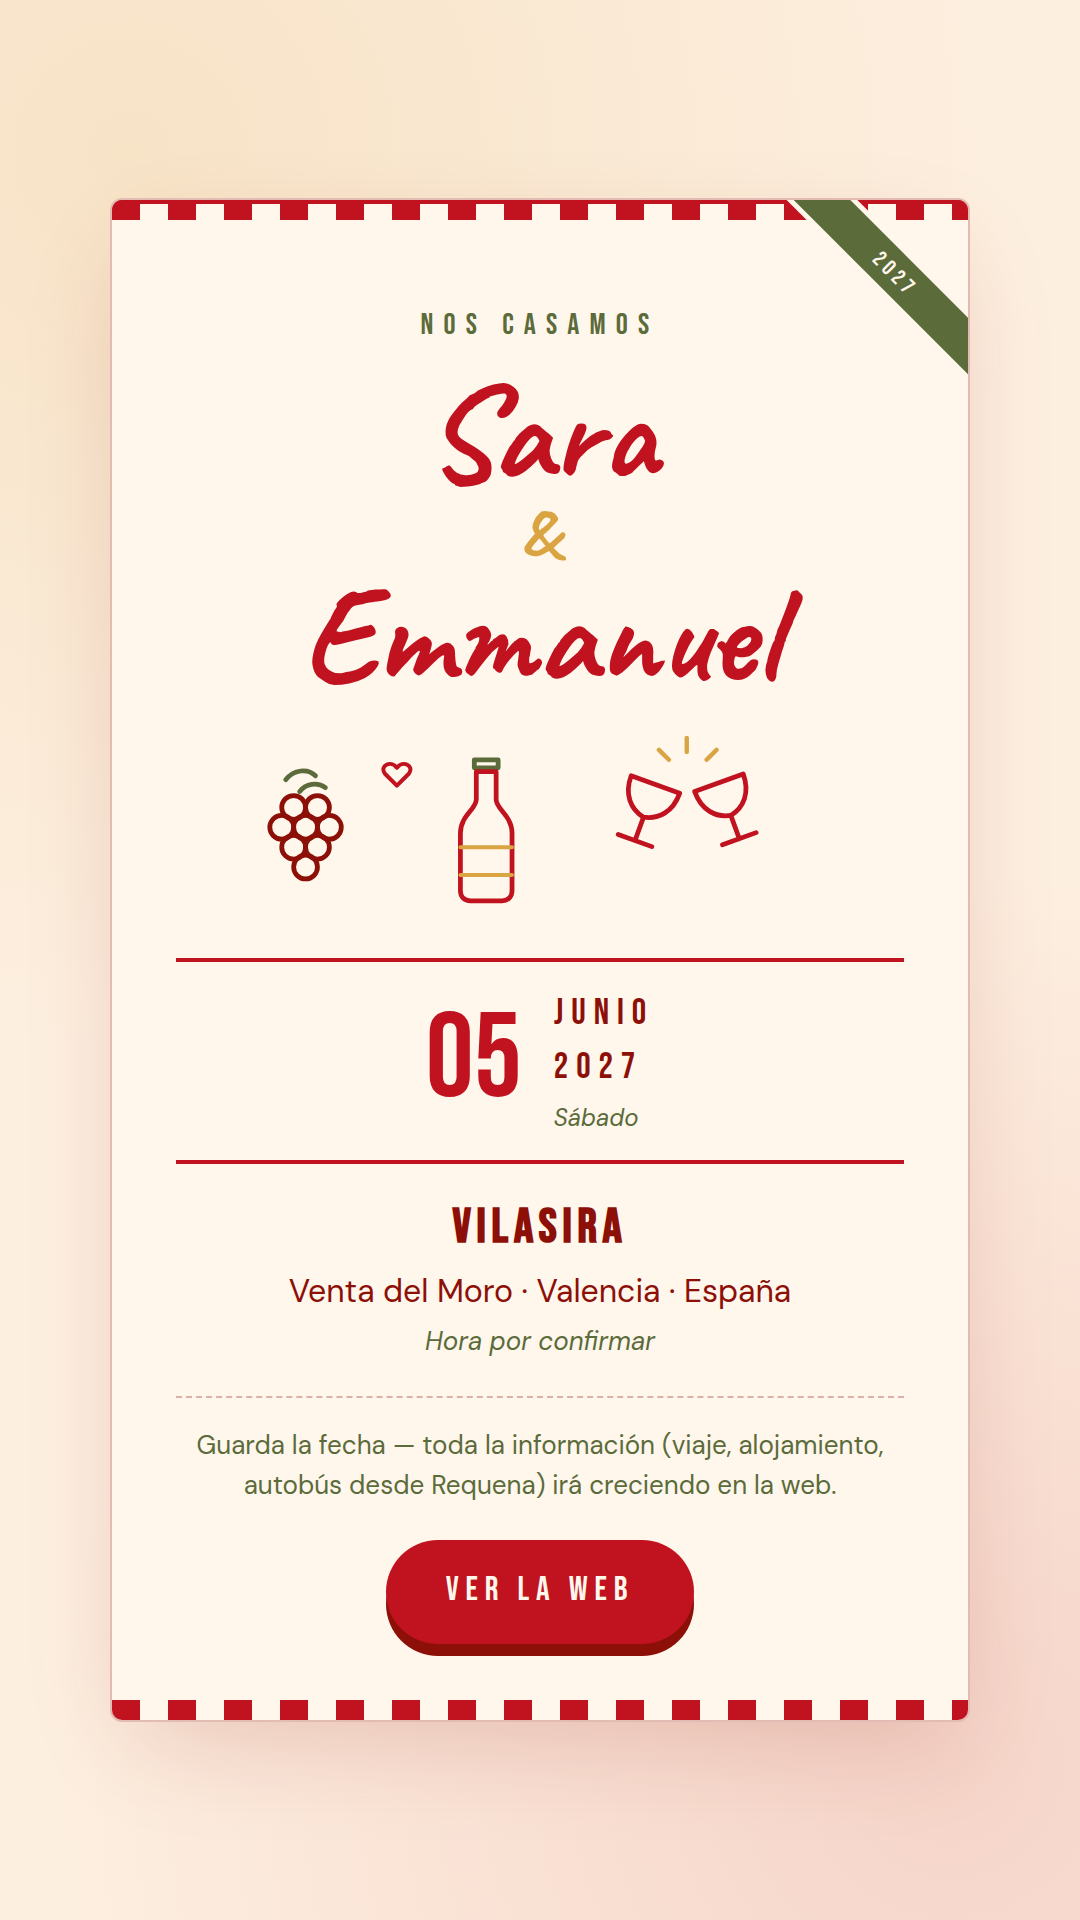
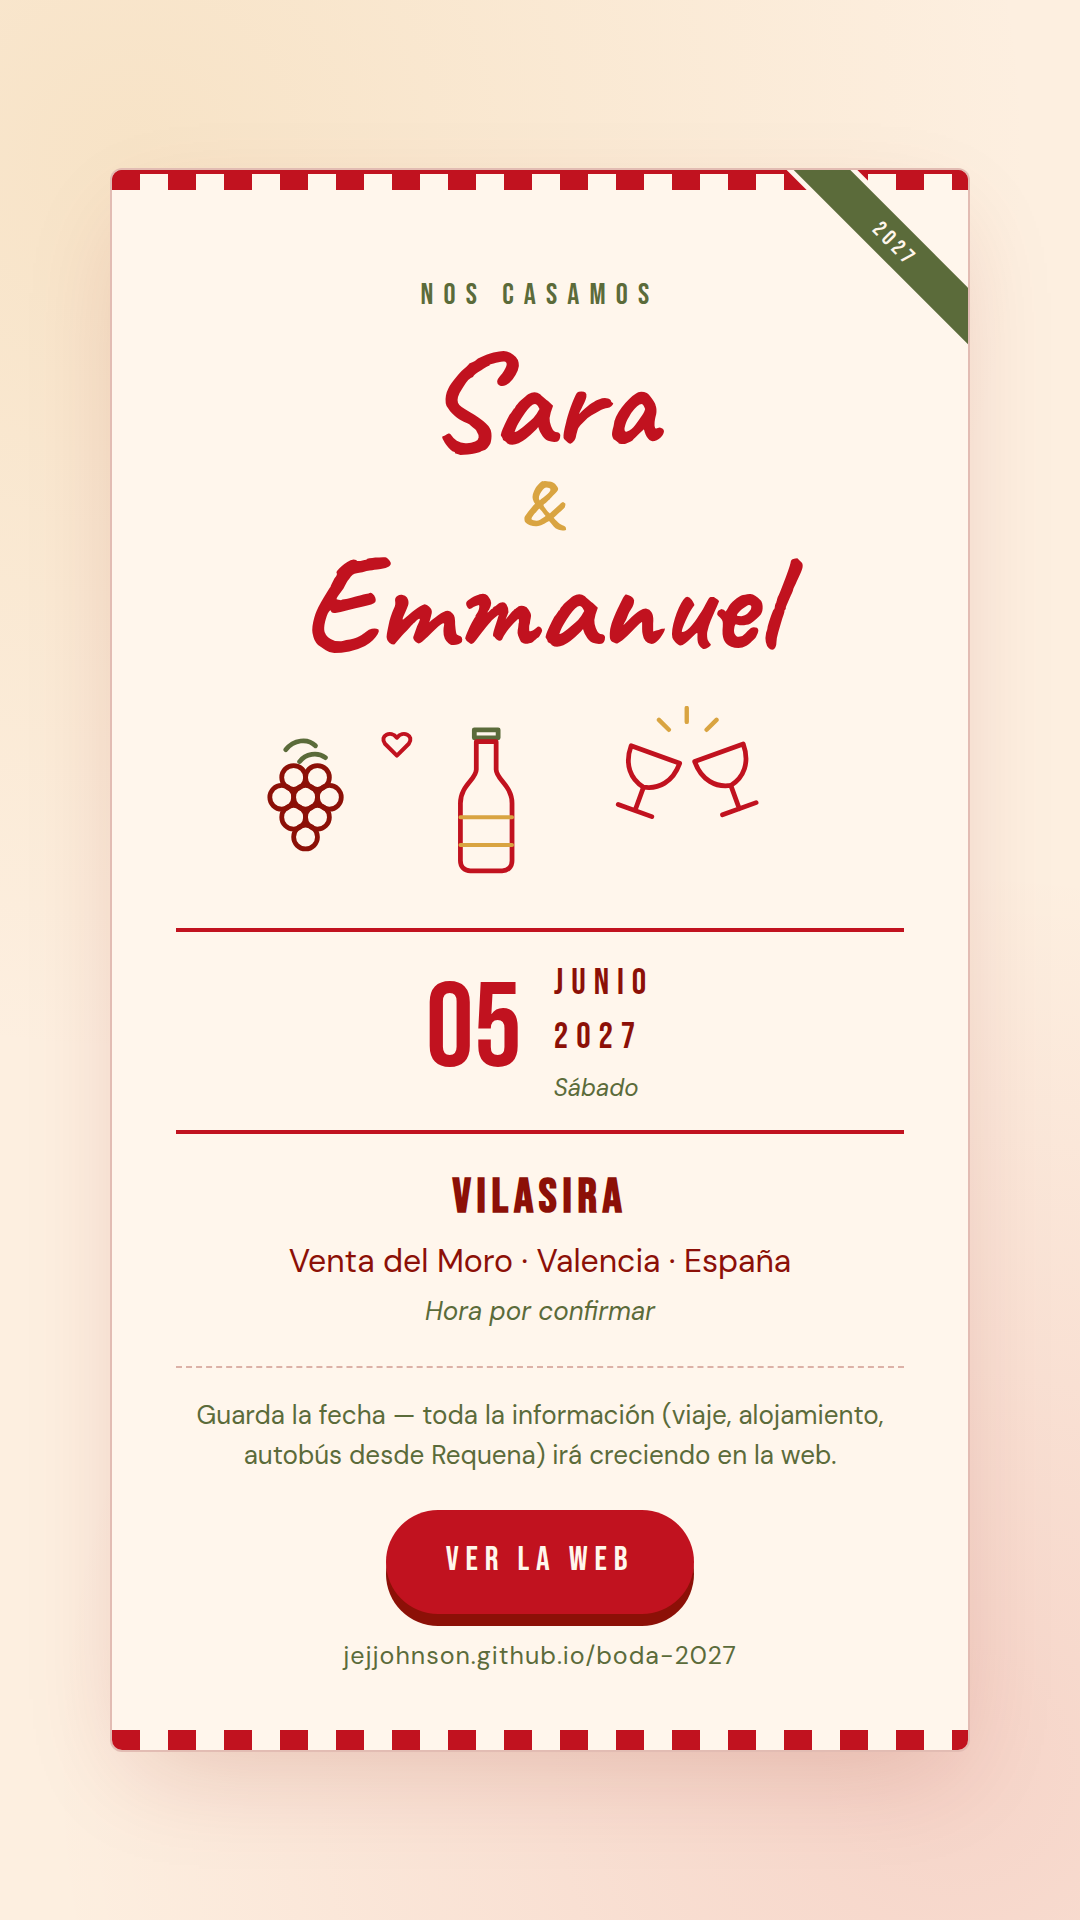
Save-the-date: URL de la web bajo el botón, imágenes re-exportadas
Claude-Session: https://claude.ai/code/session_01XwbT1FLwweDD4ksXicNcTk

Changed region(s): [[0.0917, 0.0625, 0.9167, 0.9375]]

diff --git a/save-the-date/index.html b/save-the-date/index.html
@@ -120,6 +120,7 @@
     box-shadow:0 6px 0 #8C1007;transition:transform .12s ease,box-shadow .12s ease;
   }
   .cta:active{transform:translateY(4px);box-shadow:0 2px 0 #8C1007}
+  .url{margin-top:12px;text-align:center;font-size:12.5px;letter-spacing:.04em;color:var(--olive)}
   /* lazo de esquina a 45°: contenedor cuadrado que recorta la banda */
   .stamp{
     position:absolute;top:0;right:0;width:100px;height:100px;
@@ -217,6 +218,7 @@
   </p>
 
   <a class="cta" href="../"><span data-lang="es">VER LA WEB</span><span data-lang="en">OPEN THE WEBSITE</span></a>
+  <p class="url">jejjohnson.github.io/boda-2027</p>
 </main>
 
 <script>
